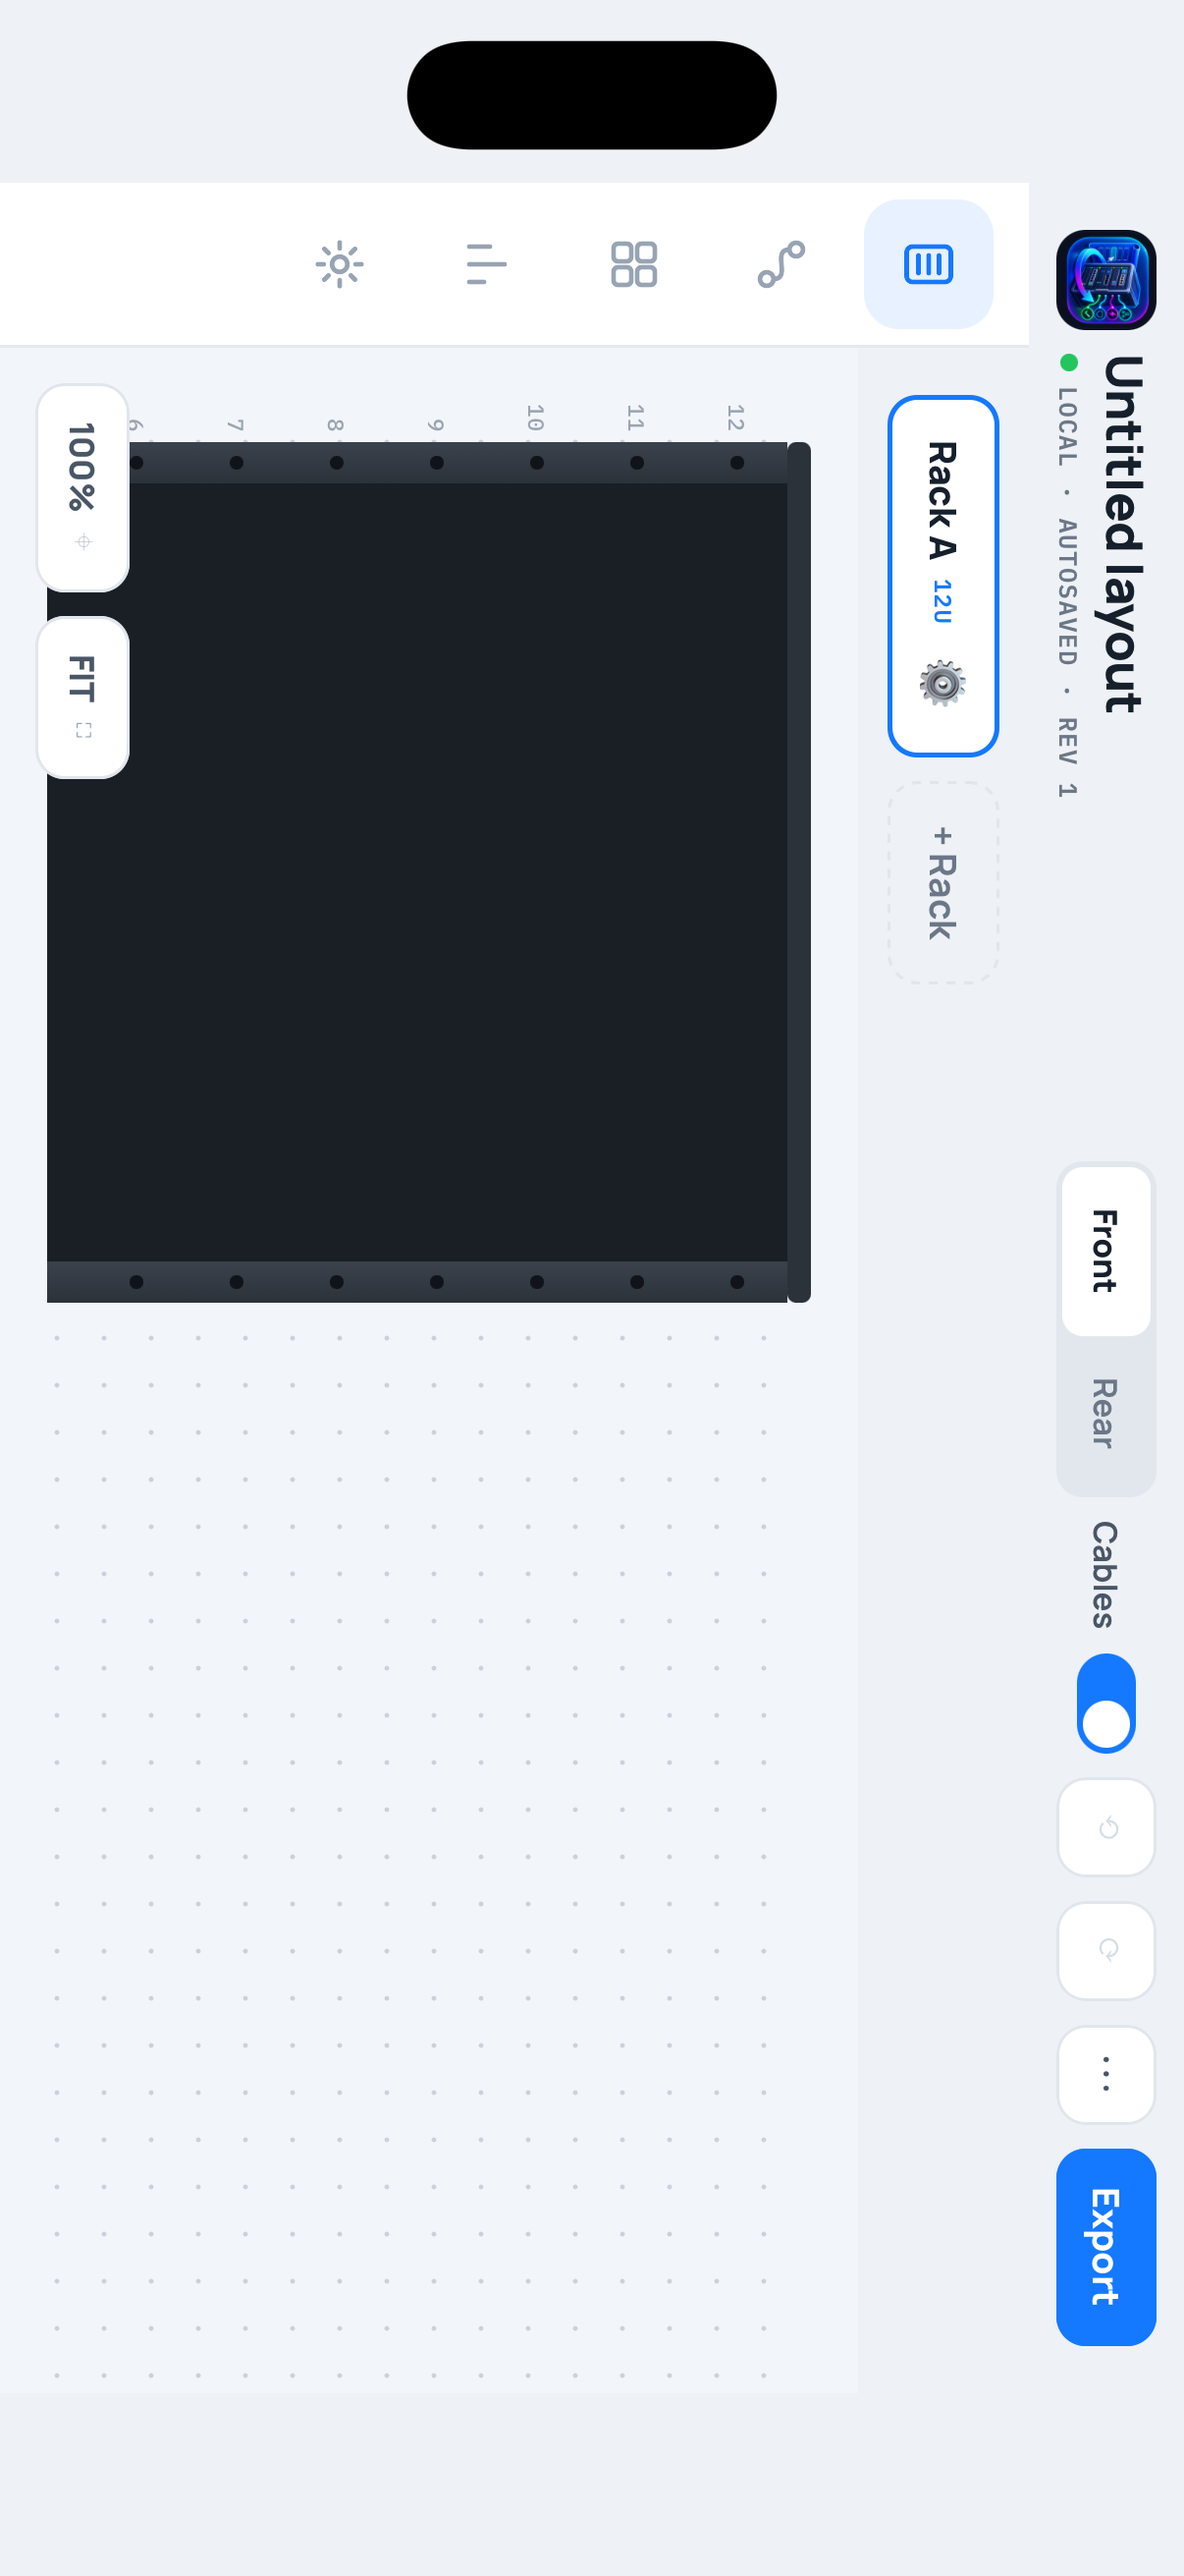
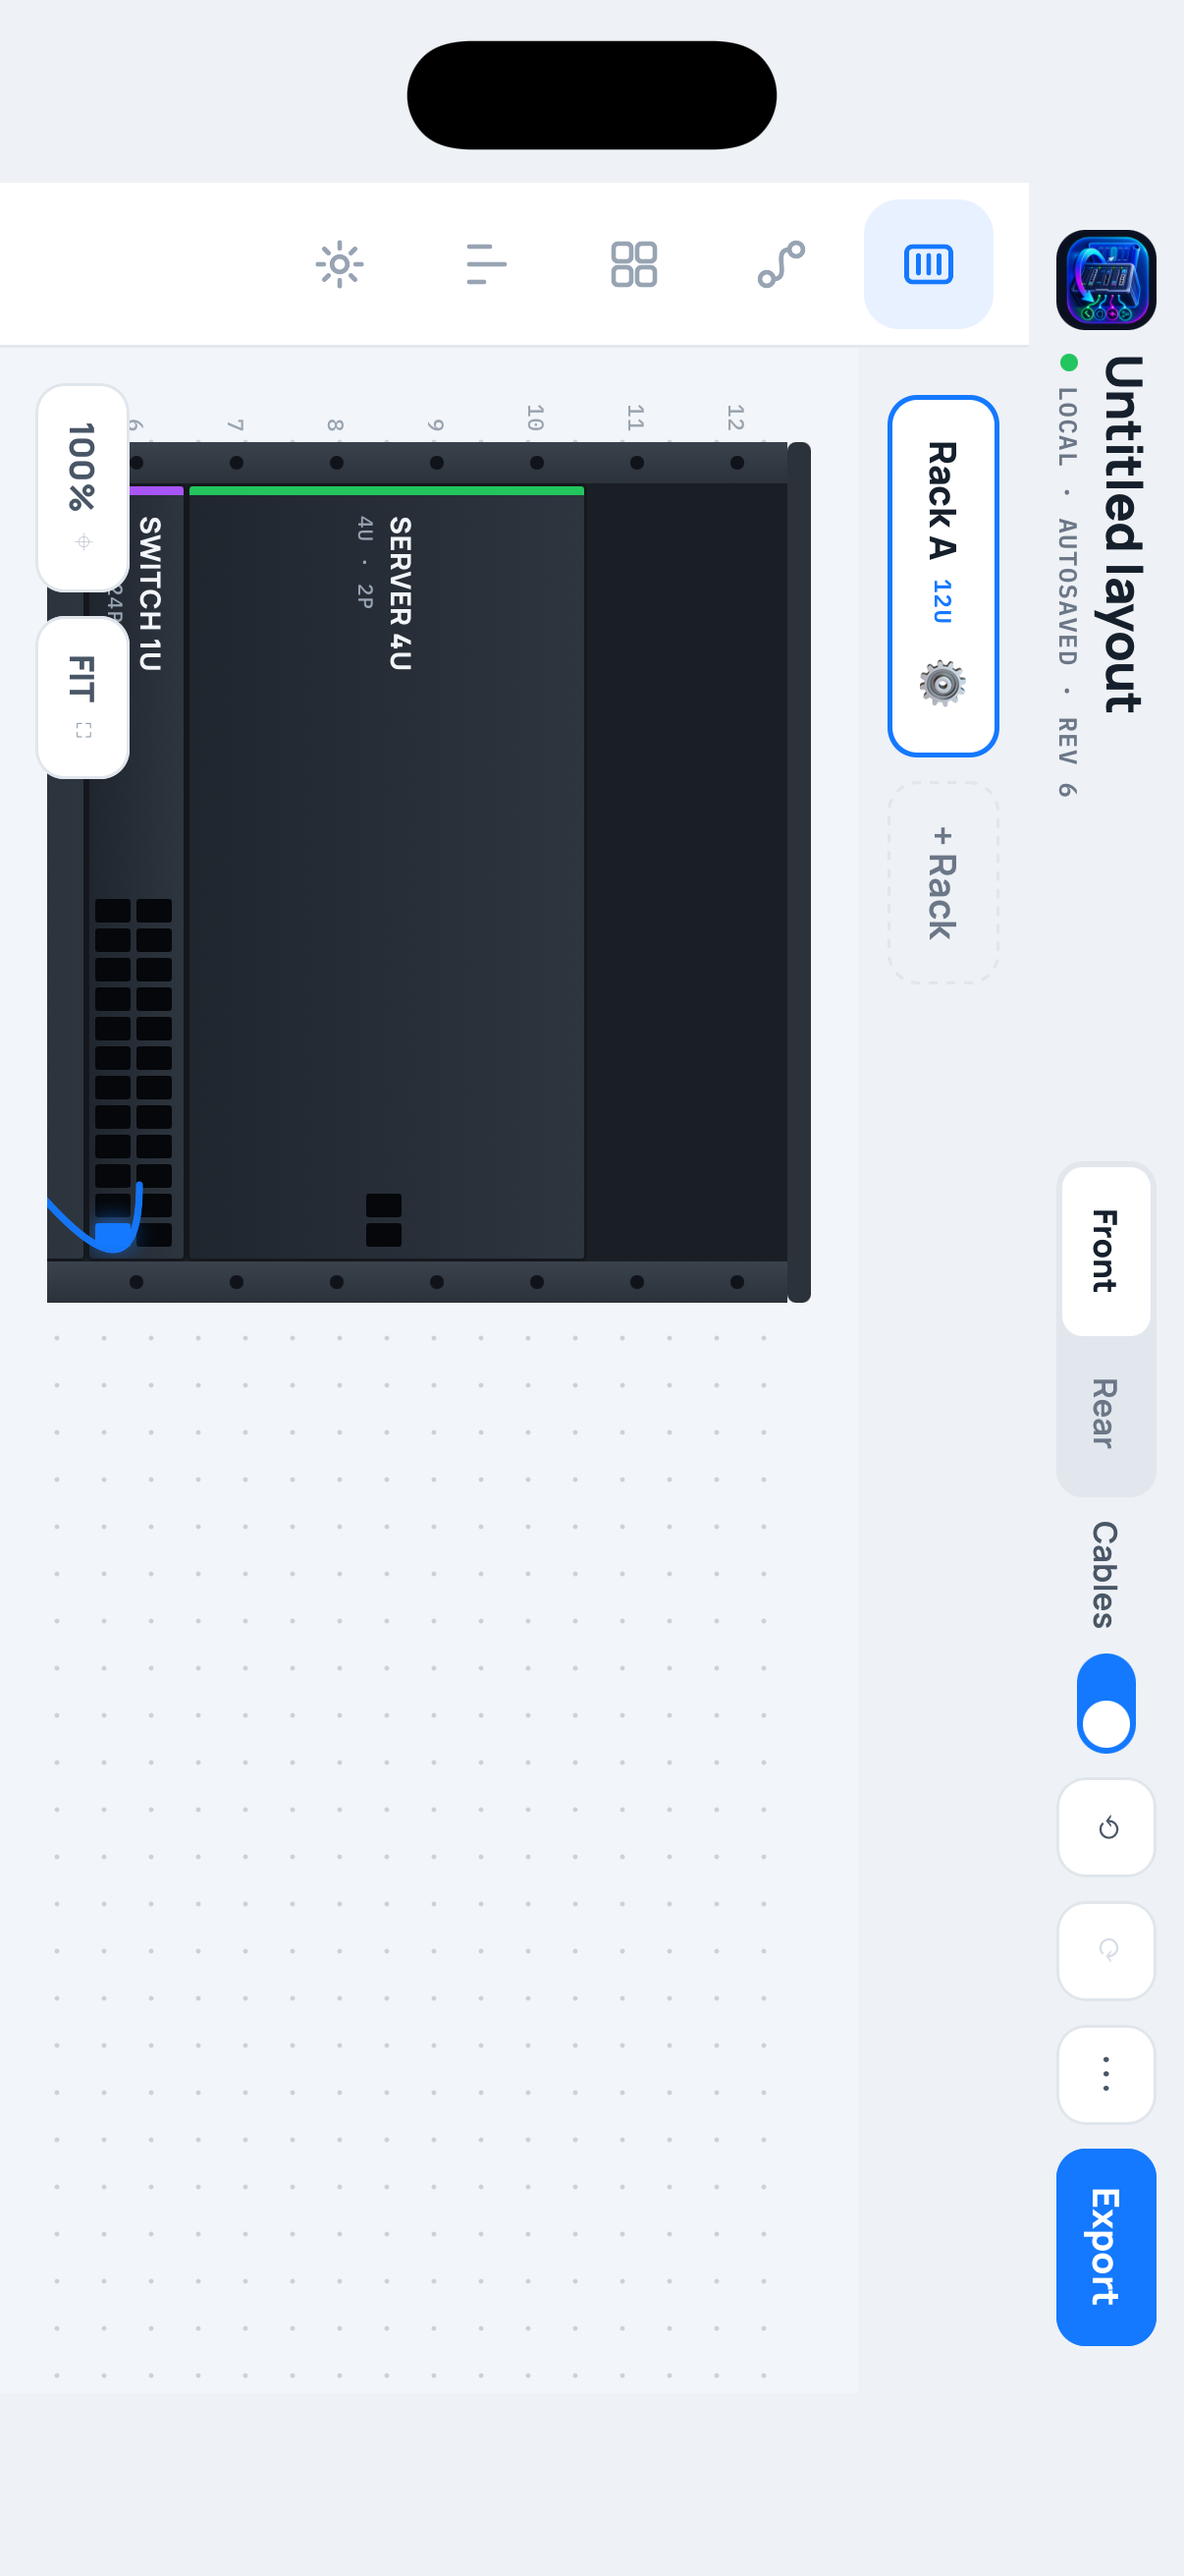
fix: the rack settings gear was merged into its chip
iOS merges an accessible view's children into a single element — the same thing
that once hid all 24 ports behind one faceplate button. Here it swallowed the ⚙
on the active rack chip, so the only route to a rack's name, standard, height
and removal could not be reached by VoiceOver, or by anything driving the app.

The chip is no longer accessible itself: the name carries the button role, and
the gear is its own control beside it.

Changed region(s): [[0.092, 0.1854, 0.4909, 0.4943], [0.0307, 0.3089, 0.1534, 0.4943], [0.3068, 0.4634, 0.3375, 0.4943]]

diff --git a/apps/app/src/ui/RackPager.tsx b/apps/app/src/ui/RackPager.tsx
@@ -1,4 +1,4 @@
-import { Pressable, ScrollView, StyleSheet, Text } from 'react-native'
+import { Pressable, ScrollView, StyleSheet, Text, View } from 'react-native'
 import { Mono } from './primitives'
 import { TOUCH, colour, font, radius } from './theme'
 import type { Rack } from '@planmyrack/core'
@@ -29,19 +29,30 @@ export function RackPager({
       {racks.map((rack) => {
         const on = rack.id === activeId
         return (
-          <Pressable
+          /*
+           * accessible={false} on the chip for the same reason the faceplate carries it: iOS
+           * merges an accessible view's children into one element, which swallowed the ⚙ whole.
+           * On an iPad the only route to a rack's name, standard and height could not be reached
+           * by VoiceOver at all.
+           */
+          <View
             key={rack.id}
-            testID={`rack-chip-${rack.id}`}
-            accessibilityRole="button"
-            accessibilityState={{ selected: on }}
-            accessibilityLabel={`${rack.name}, ${rack.units}U`}
-            onPress={() => onSelect(rack.id)}
+            accessible={false}
             style={[styles.chip, on && styles.chipOn]}
+            testID={`rack-chip-${rack.id}`}
           >
-            <Text style={[styles.name, on && styles.nameOn]}>{rack.name}</Text>
-            <Mono size={8} tone={on ? colour.accent : colour.icon}>
-              {`${rack.units}U`}
-            </Mono>
+            <Pressable
+              accessibilityRole="button"
+              accessibilityState={{ selected: on }}
+              accessibilityLabel={`${rack.name}, ${rack.units}U`}
+              onPress={() => onSelect(rack.id)}
+              style={styles.chipMain}
+            >
+              <Text style={[styles.name, on && styles.nameOn]}>{rack.name}</Text>
+              <Mono size={8} tone={on ? colour.accent : colour.icon}>
+                {`${rack.units}U`}
+              </Mono>
+            </Pressable>
             {on && onEditRack ? (
               <Pressable
                 testID={`rack-settings-${rack.id}`}
@@ -49,12 +60,12 @@ export function RackPager({
                 accessibilityLabel={`Rack settings for ${rack.name}`}
                 onPress={() => onEditRack(rack.id)}
                 style={styles.gear}
-                hitSlop={8}
+                hitSlop={10}
               >
                 <Text style={styles.gearText}>⚙</Text>
               </Pressable>
             ) : null}
-          </Pressable>
+          </View>
         )
       })}
 
@@ -92,6 +103,7 @@ const styles = StyleSheet.create({
   name: { fontFamily: font.ui, fontSize: 12.5, color: colour.textSecondary },
   nameOn: { fontFamily: font.uiBold, color: colour.text },
   addText: { fontFamily: font.ui, fontSize: 12.5, color: colour.muted },
-  gear: { paddingLeft: 4, alignItems: 'center', justifyContent: 'center' },
+  chipMain: { flexDirection: 'row', alignItems: 'center', gap: 6, minHeight: TOUCH - 6 },
+  gear: { paddingLeft: 6, alignItems: 'center', justifyContent: 'center' },
   gearText: { fontSize: 13, color: colour.icon },
 })

diff --git a/apps/app/test/racks.test.tsx b/apps/app/test/racks.test.tsx
@@ -27,6 +27,15 @@ describe('TestRackNamesAreTellableApart', () => {
 describe('TestRackCanBeRenamedResizedAndRemoved', () => {
   afterEach(() => jest.restoreAllMocks())
 
+  it('exposes the settings gear as its own control, not merged into the chip', () => {
+    // iOS merges an accessible view's children into one element: on an iPad the gear was drawn
+    // but VoiceOver — and every automation — could only see the chip
+    setWidth(1440)
+    render(<RackEditorScreen store={createMemoryStore()} initial={seeded} />)
+    expect(screen.getByLabelText('Rack settings for Rack A')).toBeTruthy()
+    expect(screen.getByLabelText('Rack A, 12U')).toBeTruthy()
+  })
+
   it('renames a rack and switches it to the 10-inch standard', async () => {
     setWidth(1440)
     const store = createMemoryStore()

diff --git a/apps/app/test/modals.test.tsx b/apps/app/test/modals.test.tsx
@@ -33,6 +33,7 @@ describe('TestModalsDeclareLandscape', () => {
           port={0}
           kind="network"
           onConnect={jest.fn()}
+          onDisconnect={jest.fn()}
           onClose={jest.fn()}
         />
       </>,
